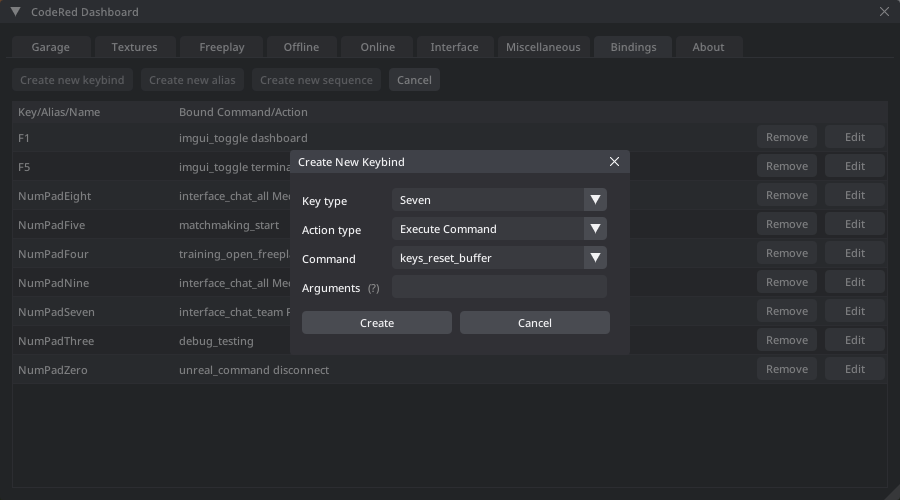
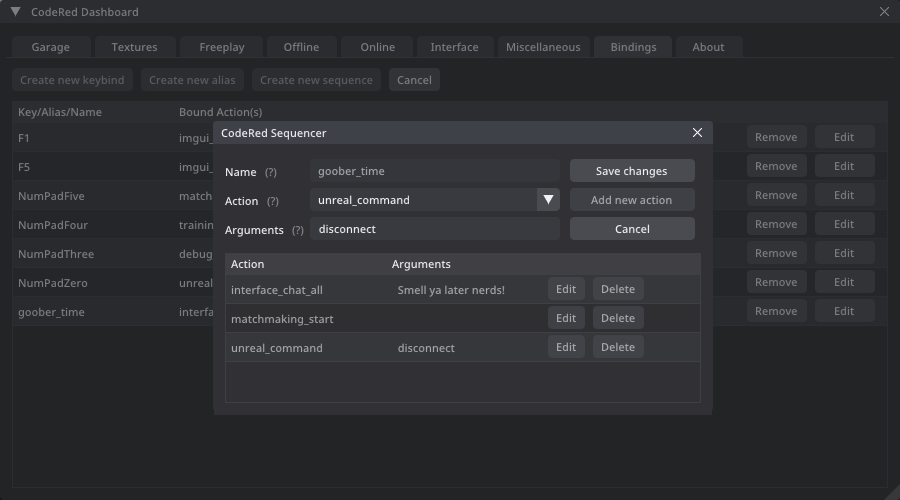
Initial Commit

diff --git a/changelog.html b/changelog.html
@@ -62,6 +62,7 @@
 		    <nav id="docs-nav" class="docs-nav navbar">
 			    <ul class="section-items list-unstyled nav flex-column pb-3">
                     <li class="nav-item section-title mt-3"><a class="nav-link scrollto" href="#section-3"><span class="theme-icon-holder me-2"><i class="fas fa-book"></i></span>Module Changelog</a></li>
+                    <li class="nav-item"><a class="nav-link scrollto" href="#item-3-6-8">Version 2.6.8</a></li>
                     <li class="nav-item"><a class="nav-link scrollto" href="#item-3-6-7">Version 2.6.7</a></li>
                     <li class="nav-item"><a class="nav-link scrollto" href="#item-3-6-6">Version 2.6.6</a></li>
                     <li class="nav-item"><a class="nav-link scrollto" href="#item-3-6-5">Version 2.6.5</a></li>
@@ -184,6 +185,18 @@
 		    <div class="container">
                 <article class="docs-article" id="section-3">
                     <h1 class="docs-heading">Changelog</h1>
+
+                        <section class="docs-section" id="item-3-6-8">
+                            <h2 class="section-heading">Version 2.6.8 (June 17th 2025)</h2>
+                            <h5>- For first time users, the dashboard and terminal windows will now automatically be opened upon first injection.</h5>
+                            <h5>- Added the new "DFH Stadium (Anniversary)" map to Discord rich presence integration and the main menu background changer.</h5>
+                            <h5>- Added a new setting <code>imgui_scanner_limit</code>, which lets you pick the limit of how many functions can be displayed in the function scanner at once.</h5>
+                            <h5>- Changed the textbox in the sequence editor window to be a searchable combobox, so you don't have to manually type out commands or settings.</h5>
+                            <h5>- Remade the custom alias and keybind windows both visually and internally, they now function similar to the new sequence window.</h5>
+                            <h5>- Fixed not being able to call an already existing sequence from another custom sequence.</h5>
+                            <h5>- Lots of code refactoring and changes to the internal framework.</h5>
+                            <h5>- Updated internal SDK to the latest version of Rocket League.</h5>
+                        </section>
 
                         <section class="docs-section" id="item-3-6-7">
                             <h2 class="section-heading">Version 2.6.7 (June 6th 2025)</h2>

diff --git a/documentation.html b/documentation.html
@@ -337,6 +337,10 @@
                                         <th class="theme-bg-light"><b>imgui_scanner_regex &lttrue-false&gt</b></th>
                                         <td>Enable the use of regular expressions when whitelisting or blacklisting strings in the function scanner.</td>
                                     </tr>
+                                       <tr>
+                                        <th class="theme-bg-light"><b>imgui_scanner_limit &lt32-8192&gt</b></th>
+                                        <td>The max amount of functions that can be displayed in the function scanner window at once.</td>
+                                    </tr>
                                     <tr>
                                         <th class="theme-bg-light"><b>imgui_reflector_archetypes &lttrue-false&gt</b></th>
                                         <td>Show archetype objects when searching for instances with the reflector window.</td>
@@ -377,11 +381,11 @@
                                     </tr>
                                     <tr>
                                         <th class="theme-bg-light"><b>keys_create_bind</b></th>
-                                        <td>Bind a key to a custom command/action.</td>
+                                        <td>Bind a key to a custom action.</td>
                                     </tr>
                                     <tr>
                                         <th class="theme-bg-light"><b>keys_create_sequence</b></th>
-                                        <td>Binds a sequence of multiple commands to your own custom alias/command with the given arguments.</td>
+                                        <td>Binds a sequence of multiple actions to your own custom command with the given arguments.</td>
                                     </tr>
                                     <tr>
                                         <th class="theme-bg-light"><b>keys_rage_quits</b></th>
